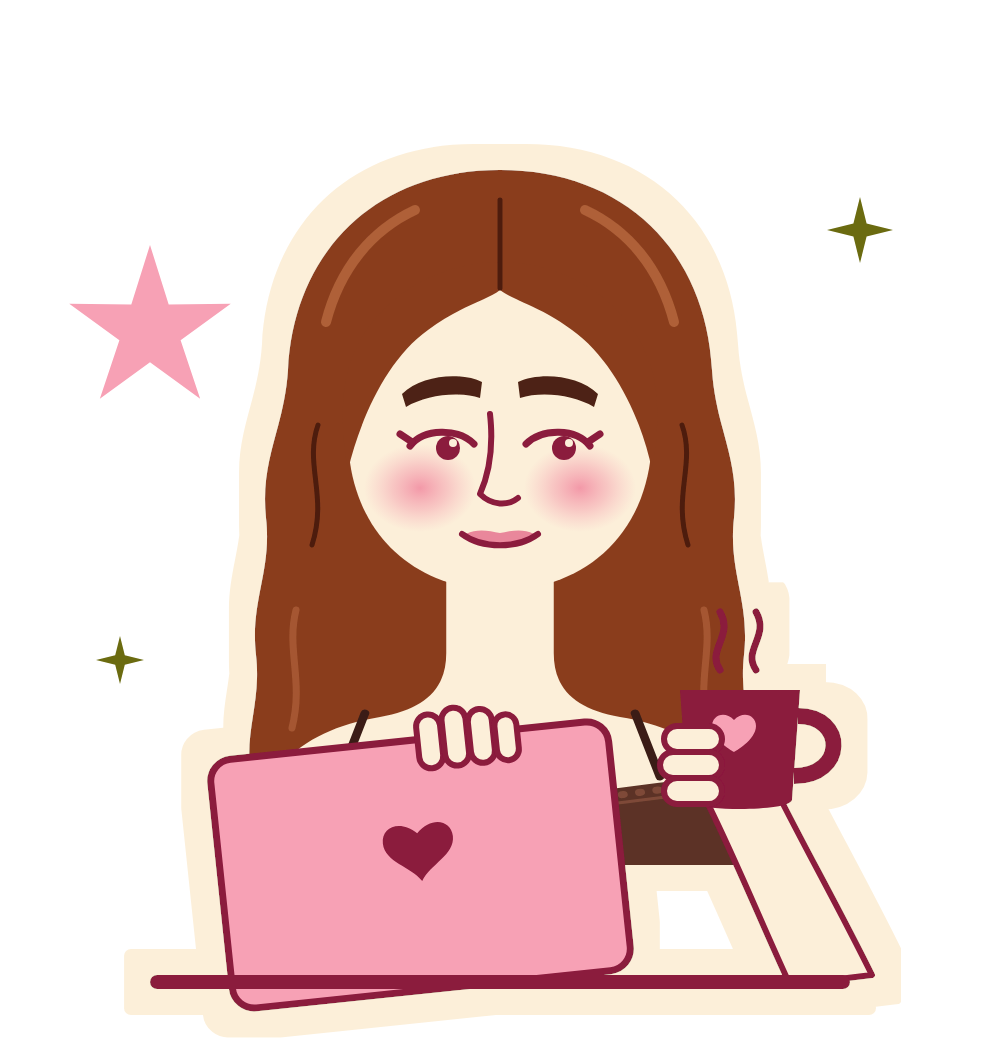
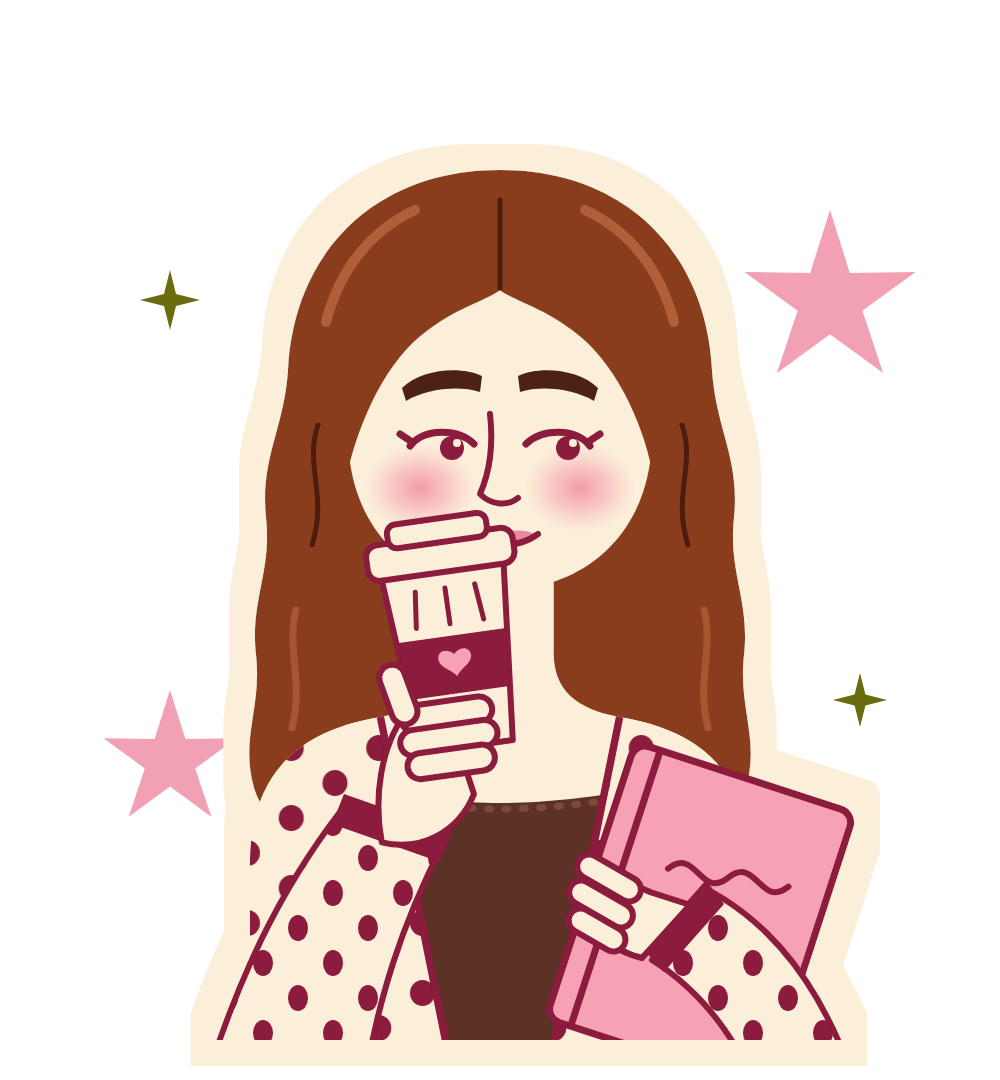
Redraw coffee and walking stickers closer to reference style
Coffee: to-go cup held at the mouth, polka-dot cardigan, notebook.
Walking: long-sleeve top, open hand, wide stride with flared pants.

Claude-Session: https://claude.ai/code/session_01EttaFugpj1THdqNUUNiweM

diff --git a/stickers/build.py b/stickers/build.py
@@ -292,6 +292,155 @@ def s_walk():
     return svg(W, H, back, head_g + body + face_g)
 
 
+# ---------- v2 poses, closer to the reference illustration style ----------
+
+DOTS_CREAM = f"""
+  <pattern id="dotsCream" width="70" height="70" patternUnits="userSpaceOnUse">
+    <rect width="70" height="70" fill="{CREAM}"/>
+    <ellipse cx="18" cy="18" rx="10" ry="13" fill="{WINE}"/>
+    <ellipse cx="53" cy="53" rx="10" ry="13" fill="{WINE}"/>
+  </pattern>"""
+
+
+def svg2(w, h, back, character, front="", crop_bottom=None):
+    clip = ""
+    inner = character
+    if crop_bottom:
+        clip = f'<clipPath id="crop"><rect x="0" y="0" width="{w}" height="{crop_bottom}"/></clipPath>'
+        inner = f'<g clip-path="url(#crop)">{character}</g>'
+    return f"""<svg xmlns="http://www.w3.org/2000/svg" viewBox="0 0 {w} {h}" width="{w}" height="{h}">{DEFS}
+  <defs>{DOTS_CREAM}{clip}</defs>
+  <g>{back}</g>
+  <g filter="url(#cutout)">{inner}
+  </g>
+  <g>{front}</g>
+</svg>
+"""
+
+
+def cardigan_body(uid):
+    long_body = BODY_PATH.replace("M300 940", "M300 1200 L300 940").replace("700 940 Z", "700 940 L700 1200 Z")
+    return f"""
+  <g {BODY_T}>
+    <path fill="{SKIN}" d="{long_body}"/>
+    <path fill="{SKIN_SHADE}" d="M457 570 C 480 598 520 598 543 570 L543 612 C 520 628 480 628 457 612 Z"/>
+    <clipPath id="bodyClip-{uid}"><path d="{long_body}"/></clipPath>
+    <g clip-path="url(#bodyClip-{uid})">
+      <path fill="{TOP}" d="M380 862 C 430 874 470 878 500 878 C 530 878 570 874 620 862 L640 1200 L360 1200 Z"/>
+      <path fill="none" stroke="{TOP_LACE}" stroke-width="7" stroke-dasharray="1 13" stroke-linecap="round" d="M380 868 C 430 880 470 884 500 884 C 530 884 570 880 620 868"/>
+      <path fill="url(#dotsCream)" stroke="{WINE}" stroke-width="6" d="M240 780 L404 790 L470 1200 L240 1200 Z"/>
+      <path fill="url(#dotsCream)" stroke="{WINE}" stroke-width="6" d="M760 780 L596 790 L530 1200 L760 1200 Z"/>
+    </g>
+  </g>"""
+
+
+def s_coffee():
+    back = star(830, 300, 0.9, "#F2A0B4") + star(170, 760, 0.7, "#F2A0B4") + sparkle(170, 300, 1.0) + sparkle(860, 700, 0.9)
+    cup_hand = f"""
+  <!-- sleeve of the arm holding the cup -->
+  <path fill="url(#dotsCream)" stroke="{WINE}" stroke-width="6" stroke-linejoin="round"
+        d="M200 1100 C 236 980 280 890 340 812 L442 846 C 404 920 376 1000 362 1100 Z"/>
+  <path fill="{WINE}" d="M332 824 L344 794 L452 832 L440 862 Z"/>
+  <g transform="translate(-10,95) rotate(-8 470 600)">
+    <!-- palm behind cup -->
+    <path fill="{SKIN}" stroke="{WINE}" stroke-width="6" stroke-linejoin="round"
+          d="M372 735 C 370 690 384 640 414 610 L452 600 L470 700 C 450 735 410 750 372 735 Z"/>
+    <!-- to-go cup -->
+    <path fill="{CREAM}" stroke="{WINE}" stroke-width="6" stroke-linejoin="round" d="M408 470 L532 470 L516 652 L424 652 Z"/>
+    <path fill="{WINE}" d="M415 540 L525 540 L520 598 L420 598 Z"/>
+    {heart(470, 572, 0.75, PINK)}
+    <rect x="396" y="440" width="148" height="36" rx="12" fill="{CREAM}" stroke="{WINE}" stroke-width="6"/>
+    <rect x="420" y="422" width="100" height="24" rx="9" fill="{CREAM}" stroke="{WINE}" stroke-width="6"/>
+    <path fill="none" stroke="{WINE}" stroke-width="5" stroke-linecap="round" d="M440 492 L436 528 M470 492 L470 528 M500 492 L504 528"/>
+    <!-- fingers wrapped across the cup -->
+    <g fill="{SKIN}" stroke="{WINE}" stroke-width="6">
+      <rect x="408" y="604" width="92" height="26" rx="13"/>
+      <rect x="404" y="628" width="98" height="26" rx="13"/>
+      <rect x="408" y="652" width="88" height="26" rx="13"/>
+      <rect x="396" y="560" width="26" height="62" rx="13" transform="rotate(-12 409 591)"/>
+    </g>
+  </g>"""
+    notebook = f"""
+  <!-- notebook hugged with the other arm -->
+  <g transform="rotate(18 700 900)">
+    <rect x="590" y="770" width="230" height="290" rx="14" fill="{PINK}" stroke="{WINE}" stroke-width="7"/>
+    <path stroke="{WINE}" stroke-width="7" d="M616 770 L616 1060"/>
+    <path fill="none" stroke="{WINE}" stroke-width="6" stroke-linecap="round"
+          d="M660 880 C 680 850 700 900 720 870 C 740 840 760 890 780 860"/>
+    {star(735, 960, 0.22, WINE)}
+  </g>
+  <path fill="url(#dotsCream)" stroke="{WINE}" stroke-width="6" stroke-linejoin="round"
+        d="M860 1100 C 830 1000 780 930 712 892 L652 960 C 700 990 740 1040 760 1100 Z"/>
+  <path fill="{WINE}" d="M706 880 L724 904 L664 972 L644 950 Z"/>
+  <g fill="{SKIN}" stroke="{WINE}" stroke-width="6">
+    <path d="M642 958 C 610 950 590 930 596 905 C 602 885 628 880 650 892 L690 905 Z"/>
+    <rect x="574" y="866" width="70" height="24" rx="12" transform="rotate(30 609 878)"/>
+    <rect x="566" y="892" width="70" height="24" rx="12" transform="rotate(30 601 904)"/>
+    <rect x="566" y="918" width="62" height="24" rx="12" transform="rotate(30 597 930)"/>
+  </g>"""
+    character = (hair_back() + cardigan_body("coffee2") +
+                 face_base() + brows(6) + eyes_open(look_x=10) + MOUTH_SOFT + cup_hand + notebook)
+    return svg2(1000, 1080, back, character, crop_bottom=1040)
+
+
+def s_walk():
+    W, H = 1000, 1150
+    back = star(180, 260, 0.75, "#F2A0B4") + star(840, 700, 0.6, "#F2A0B4") + sparkle(800, 200, 1.0) + sparkle(150, 820, 0.9)
+    HT = 'transform="translate(220,6) scale(0.5)"'
+    hair_g = f'<g {HT}>{hair_back()}</g>'
+    face_g = f'<g {HT}>{face_base()}{brows(4)}{eyes_open(look_x=12)}{MOUTH_BIG_SMILE}</g>'
+
+    def finger(d):
+        return (f'<path fill="none" stroke="{WINE}" stroke-width="24" stroke-linecap="round" d="{d}"/>'
+                f'<path fill="none" stroke="{SKIN}" stroke-width="12" stroke-linecap="round" d="{d}"/>')
+
+    body = f"""
+  <!-- back arm swinging back, open hand -->
+  <path fill="{TOP}" stroke="{WINE}" stroke-width="6" stroke-linejoin="round"
+        d="M402 345 C 362 420 322 500 282 586 L338 610 C 372 528 414 456 446 392 Z"/>
+  <path fill="{WINE}" d="M280 584 L340 610 L330 632 L270 606 Z"/>
+  {finger("M276 640 L252 690")}{finger("M292 650 L276 704")}{finger("M308 652 L302 704")}{finger("M322 646 L328 690")}
+  <path fill="{SKIN}" stroke="{WINE}" stroke-width="6" d="M268 612 C 256 632 262 660 290 668 C 318 674 336 650 332 628 Z"/>
+  {finger("M272 628 L258 656")}
+
+  <g transform="translate(0,612) scale(1,0.74) translate(0,-612)">
+  <!-- back leg -->
+  <path fill="url(#dots)" stroke="{WINE}" stroke-width="7" stroke-linejoin="round"
+        d="M396 612 L486 612 C 466 800 418 1000 392 1236 L222 1212 C 288 1000 350 800 396 612 Z"/>
+  <g transform="rotate(-24 300 1250)">
+    <path fill="{WINE}" d="M222 1226 L380 1226 C 392 1226 398 1250 390 1270 L210 1270 C 196 1270 196 1240 222 1226 Z"/>
+    <path stroke="{CREAM}" stroke-width="5" stroke-linecap="round" d="M300 1236 L340 1236 M296 1248 L336 1248"/>
+  </g>
+
+  </g>
+  <g transform="translate(0,612) scale(1,0.74) translate(0,-612)">
+  <!-- front leg stepping forward -->
+  <path fill="url(#dots)" stroke="{WINE}" stroke-width="7" stroke-linejoin="round"
+        d="M466 612 L574 612 C 640 800 716 1000 784 1212 L612 1242 C 572 1000 520 800 466 612 Z"/>
+  <g transform="rotate(6 700 1260)">
+    <path fill="{WINE}" d="M610 1240 L760 1236 C 800 1240 818 1260 812 1282 L606 1284 C 596 1270 598 1250 610 1240 Z"/>
+    <path stroke="{CREAM}" stroke-width="5" stroke-linecap="round" d="M680 1248 L720 1246 M684 1260 L724 1258"/>
+  </g>
+
+  </g>
+  <!-- neck + sweater -->
+  <path fill="{SKIN}" d="M446 250 L494 250 L494 330 L446 330 Z"/>
+  <path fill="{TOP}" stroke="{WINE}" stroke-width="6" stroke-linejoin="round"
+        d="M402 340 C 428 322 446 318 450 318 C 458 338 482 338 490 318 C 500 318 524 324 544 340
+           C 572 362 584 396 584 436 L576 622 L392 622 L384 436 C 382 396 384 362 402 340 Z"/>
+  <path fill="none" stroke="{TOP_LACE}" stroke-width="6" stroke-dasharray="1 11" stroke-linecap="round" d="M452 326 C 462 344 480 344 488 326"/>
+  <!-- waistband -->
+  <path fill="{PINK}" stroke="{WINE}" stroke-width="7" d="M388 604 L582 604 L586 640 L384 640 Z"/>
+
+  <!-- front arm swinging forward, relaxed fist -->
+  <path fill="{TOP}" stroke="{WINE}" stroke-width="6" stroke-linejoin="round"
+        d="M540 344 C 576 400 606 470 632 548 L580 570 C 562 500 540 440 512 392 Z"/>
+  <path fill="{WINE}" d="M580 568 L634 546 L642 568 L588 592 Z"/>
+  <path fill="{SKIN}" stroke="{WINE}" stroke-width="6" d="M590 592 C 586 622 604 646 630 642 C 656 638 664 610 650 584 Z"/>
+  <path fill="none" stroke="{WINE}" stroke-width="5" stroke-linecap="round" d="M604 612 C 616 616 630 614 640 606 M608 626 C 620 630 632 628 642 620"/>"""
+    return svg2(W, H, back, hair_g + body + face_g)
+
+
 STICKERS = {
     "sticker-02-sonrisa": s_smile,
     "sticker-03-beso": s_kiss,
